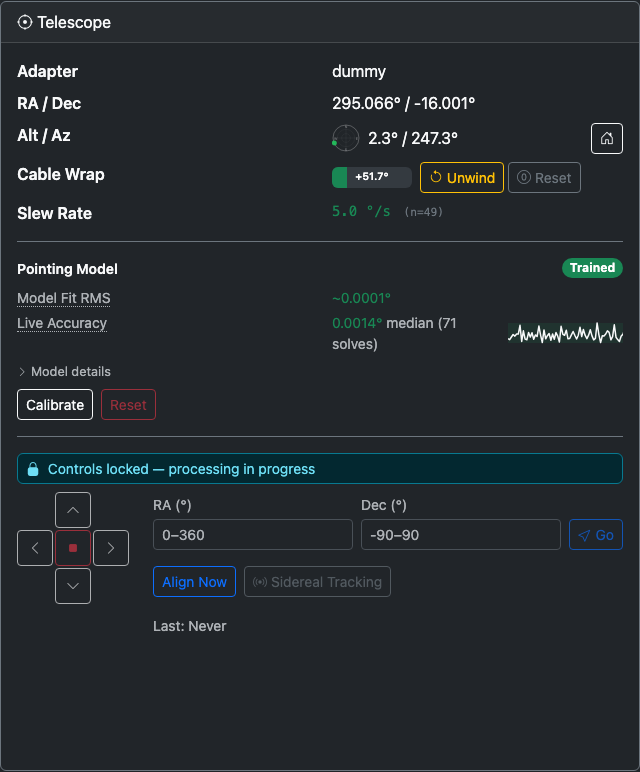
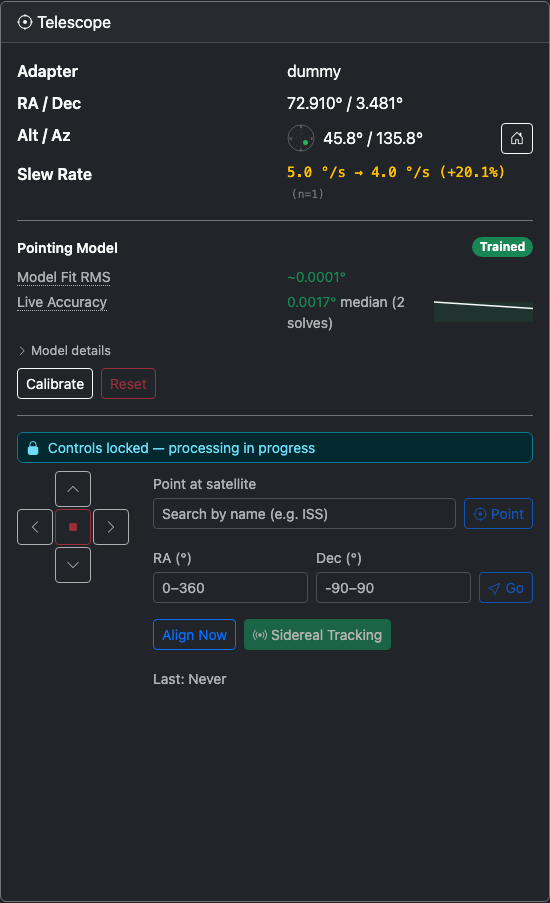
Update CitraSense documentation to include detection backend options and enhance sensor details

diff --git a/docs/citrasense/TelescopeSensor.md b/docs/citrasense/TelescopeSensor.md
@@ -126,6 +126,9 @@ Controls:
 Additional mount controls appear at the bottom of the Telescope card for adapters that support direct control:
 
 - **Jog pad** — 3×3 grid of N/S/E/W buttons for manual mount movement. Press and hold to move; release to stop. Center button stops all axes immediately. Works with both mouse and touch.
+- **Point at satellite** — Search the satellite catalog by name (start typing — for example "ISS" or "DIRECTV 14" — and matches appear in a dropdown). Pick a result to load its live state. A chip shows its current altitude and azimuth, colored green when above the configured horizon limit, yellow when below it, and red when below the horizon. The action button reads **Track** on mounts that support custom tracking rates (slew and follow the satellite) and **Point** on mounts that do not (slew once — press again to re-point). A "View on Citra" link opens the satellite's page on citra.space when the app URL is configured. Click **clear** to drop the selection.
+
+  ![Telescope card with DIRECTV 14 selected as the satellite target, showing the live alt/az chip and View on Citra link](img/sensor-telescope-satellite-track.png)
 - **Go To** — Enter target RA (0–360°) and Dec (−90–90°), press **Go** to slew. The button is disabled while the mount is slewing or busy.
 - **Align Now** — Triggers a plate-solve alignment to sync the mount model. The button changes to **Cancel Alignment** while running and shows progress text and a spinner; below it the last alignment timestamp is displayed when idle.
 - **Sidereal Tracking** — Toggle the mount's sidereal tracking on or off.
@@ -164,9 +167,15 @@ The preview area shows the most recent image captured by this telescope's camera
 | **Snap** | Take a single preview exposure. |
 | **Loop** | Start continuous preview exposures (button turns red; click again to stop). |
 | **Save** | Capture a full FITS image at the current exposure. |
+| **Analyze now** | Capture one frame at the current exposure, run it through the processing pipeline (plate-solve, source extraction, satellite matching), and upload any matches. Useful for one-off "what's in the field?" checks without scheduling a task. Disabled while another capture, autofocus, or imaging task is in flight. When the job finishes, an inline result panel shows whether the frame plate-solved, the field center and pixel scale, source count, and a list of satellite matches with their magnitudes. Click the × on the panel to dismiss it. See screenshot below. |
 | **Flip** | Horizontally flip the preview — useful when a diagonal mirror inverts the image. |
 
 A **Sensor busy** indicator appears in place of these controls when an imaging task is in progress.
+
+{: .note }
+> **Analyze now** is only available on adapters that support ad-hoc captures. Currently that's the Direct Hardware adapter; N.I.N.A. and KStars don't yet expose a free-form capture endpoint, so the button will return "this sensor's adapter doesn't support ad-hoc captures."
+
+![Optics card after an Analyze now run, with the result panel showing plate-solve status, source count, and matched satellites](img/sensor-optics-analyze-now.png)
 
 ### Filter Wheel
 

diff --git a/docs/citrasense/Configuration.md b/docs/citrasense/Configuration.md
@@ -64,9 +64,20 @@ For the Direct adapter, a **Scan Hardware** button appears to re-enumerate USB d
 
 Streaming sensors (all-sky, staring) do not use the hardware adapter dropdown — they carry all their per-sensor configuration in their adapter settings card below.
 
-### Live Bus Pills (staring sensors)
+### Detection Backend (staring sensors)
 
-For staring sensors, a row of **Live** pills at the top of the Hardware tab shows the bus state and the linked `target_acquired` daemon's state. Green means the bus is connected and the daemon is running; yellow means stale or awaiting catalog; red means offline or in error.
+Staring sensors choose how captured FITS frames are turned into satellite observations. The **Detection backend** dropdown on the Hardware tab has two options:
+
+| Option | What it does |
+|--------|-------------|
+| **On-device optical pipeline** (default) | CitraSense runs plate-solve → source extraction → satellite matching locally on the host, the same way the telescope sensor does, and uploads matches itself. No external service required. Good fit for Raspberry Pi deployments where you want the staring camera to be self-contained. |
+| **target_acquired (external matched-filter via NATS)** | Hands the captured FITS files to an external `target_acquired` subscriber running a matched-filter detector. Better for very dim sources at known positions, but requires the `target_acquired` service to be reachable over NATS. |
+
+When **On-device optical pipeline** is selected, the NATS connection fields (URL, catalog seeding, refresh interval) are hidden — the on-device pipeline doesn't need them. The Ping and Reseed catalog controls on the staring sensor detail page also disappear, since they only apply to the `target_acquired` link.
+
+### Live Bus Pills (staring sensors, target_acquired backend)
+
+When the **target_acquired** backend is selected, a row of **Live** pills at the top of the Hardware tab shows the bus state and the linked `target_acquired` daemon's state. Green means the bus is connected and the daemon is running; yellow means stale or awaiting catalog; red means offline or in error.
 
 ### Adapter Settings
 

diff --git a/docs/citrasense/Monitoring.md b/docs/citrasense/Monitoring.md
@@ -118,7 +118,7 @@ Shows the all-sky stream status, the latest preview frame, and a Start/Stop stre
 
 ### Staring Camera Card
 
-Shows the `target_acquired` daemon link status as a colored pill: green when status messages are flowing, gray while waiting for the first per-batch status, yellow when the link has gone stale. The hero panel surfaces the most recent batch summary and ping latency.
+Shows the active detection backend and capture state. When **target_acquired** is the selected backend, the card surfaces the `target_acquired` daemon link status as a colored pill — green when status messages are flowing, gray while waiting for the first per-batch status, yellow when the link has gone stale — and the most recent batch summary and ping latency. When the **on-device optical pipeline** backend is selected, the daemon link pill and per-batch status are hidden; the card instead reflects the local processing pipeline's state (the same Imaging → Processing → Submission stages used by telescope sensors).
 
 ---
 

diff --git a/docs/citrasense/_OUTLINE.md b/docs/citrasense/_OUTLINE.md
@@ -80,7 +80,7 @@ surface area for non-telescope sensors is not yet documented.
 
 - [ ] **Sensors overview page** (`Sensors.md`, nav_order: 6, `has_children: true`) — what a "sensor" is, the modalities CitraSense ships (telescope, all-sky, staring camera), how to add / remove one, and how each gets its own task queue.
 - [ ] **All-sky camera** (`Allsky.md`, child of Sensors) — purpose, hardware (RPi HQ, USB), streaming controls, frame storage.
-- [ ] **Staring camera** (`StaringCamera.md`, child of Sensors) — link to the `target_acquired` daemon, ping log, operating window, what gets uploaded.
+- [ ] **Staring camera** (`StaringCamera.md`, child of Sensors) — link to the `target_acquired` daemon, ping log, operating window, what gets uploaded. (Detection-backend choice — on-device optical pipeline vs `target_acquired` — is partially covered in Configuration.md until this page exists.)
 
 ### 7. Ground-station switching — NEW
 
